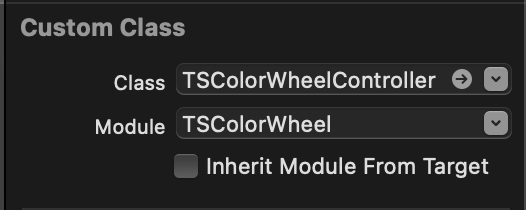
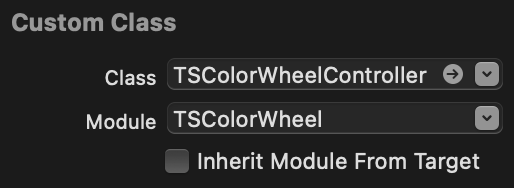
Release 2.0.2

Changed region(s): [[0.1556, 0.0, 1.0, 1.0], [0.0, 0.0, 0.3735, 1.0], [0.1868, 0.3457, 0.3113, 0.4521]]

diff --git a/TSColorWheel/Classes/Models/HSVColor.swift b/TSColorWheel/Classes/Models/HSVColor.swift
@@ -10,7 +10,7 @@ struct HSVColor: Equatable {
     }
 
     var isLightColor: Bool {
-        brightness > 0.7 && (saturation < 0.4 || (hue >= 0.1 && hue <= 0.55))
+        brightness > 0.75 && (saturation < 0.5 || (hue >= 0.05 && hue <= 0.55))
     }
 
     var borderColor: UIColor { .init(white: isLightColor ? 0.1 : 1, alpha: 1) }

diff --git a/README.md b/README.md
@@ -8,7 +8,7 @@
 
 A color wheel/picker for watchOS based on [Colorful](https://github.com/hayashi311/Color-Picker-for-iOS) that uses the Digital Crown as a brightness slider.
 
-<img src="https://raw.githubusercontent.com/tamassengel/TSColorWheel/master/readme_images/capture.gif" alt="Screen Capture" width="180">
+<img src="https://raw.githubusercontent.com/tamassengel/TSColorWheel/master/readme_images/capture.gif" alt="Screen Capture" width="160">
 
 ## Usage
 
@@ -23,7 +23,7 @@ To use TSColorWheel in the storyboard, add a new Hosting Controller and change i
 
 Make sure to **uncheck** Inherit Module From Target.
 
-<img src="https://raw.githubusercontent.com/tamassengel/TSColorWheel/master/readme_images/storyboard_custom_class.png" alt="Screen Capture" width="263">
+<img src="https://raw.githubusercontent.com/tamassengel/TSColorWheel/master/readme_images/storyboard_custom_class.png" alt="Screen Capture" width="257">
 
 ### Usage in a SwiftUI view structure
 
